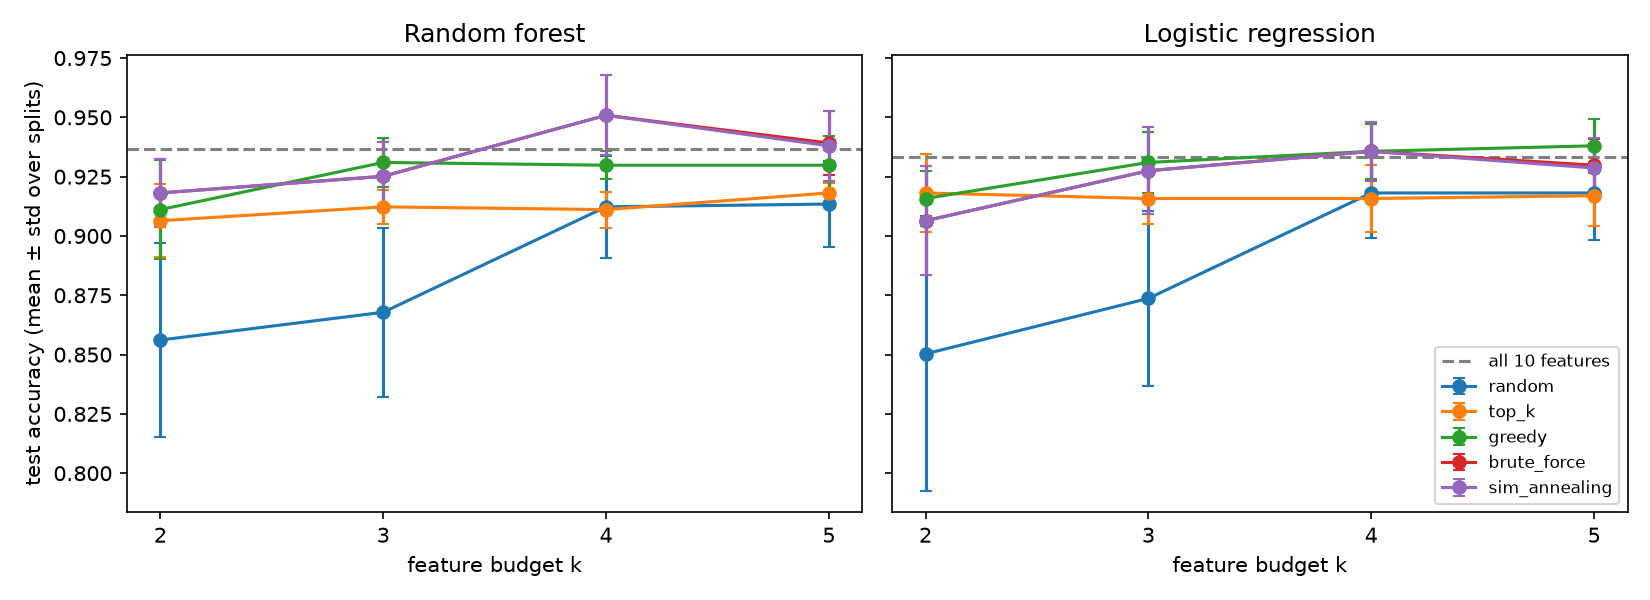
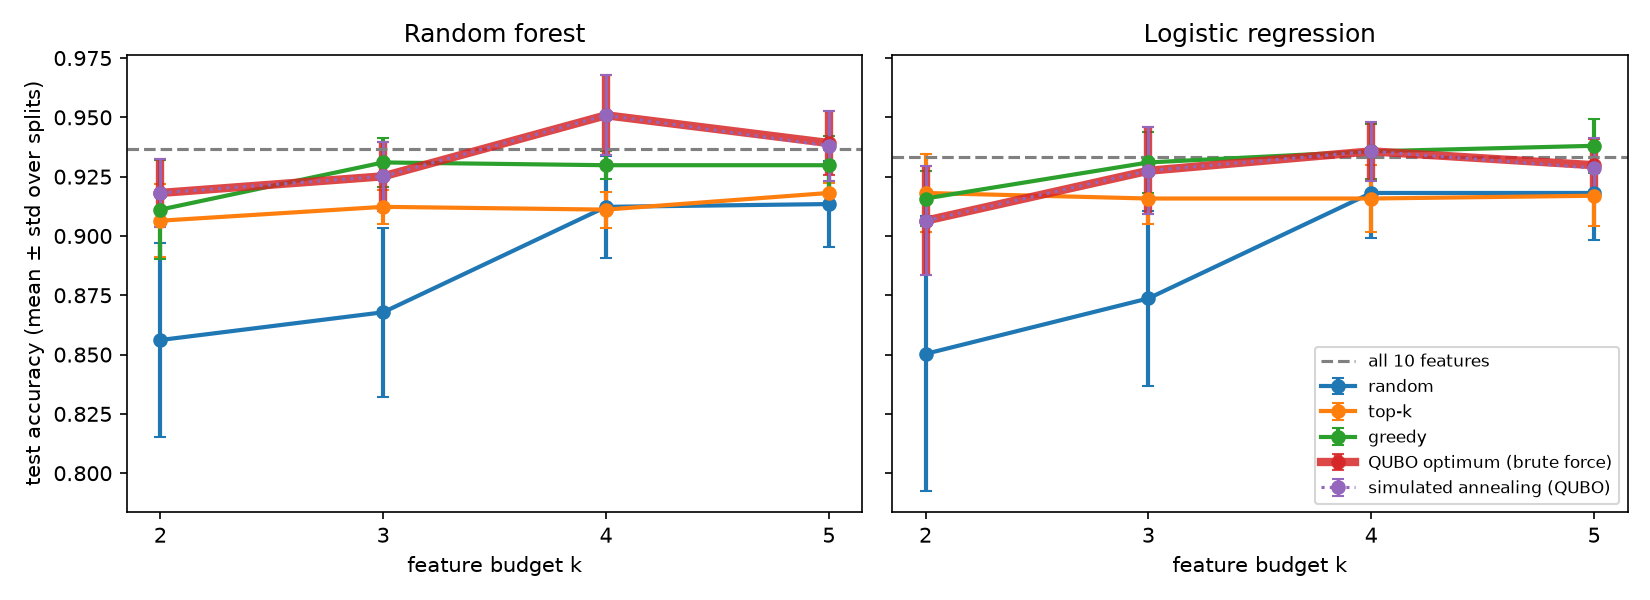
Label the QUBO optimum clearly in all experiment plots
Brute force, simulated annealing and QAOA return the same subsets, so their
lines used to overlap and hide each other. A shared plot_style.py now draws
the QUBO optimum as a thick red line with QAOA (dashed) and simulated
annealing (dotted) on top, and gives every method the same readable legend
name and colour across plots. All accuracy, data-noise and scale plots are
re-rendered from the saved results (no experiments re-run).

diff --git a/plot_scale.py b/plot_scale.py
@@ -1,6 +1,6 @@
 """
 Plot the 30-feature scale check (scale_check.py): accuracy and QUBO energy gap vs budget k.
-Colours per method match the other experiment plots (matplotlib tab10 order used in run_experiments.py).
+Names, colours and styles per method come from plot_style.py, shared by all experiment plots.
 
 Usage:
     python plot_scale.py   -> results/experiments/scale_30_corr_a0.5.png
@@ -10,24 +10,19 @@ import os
 import matplotlib.pyplot as plt
 import pandas as pd
 
+from plot_style import LABELS, STYLES, ordered
 from run_experiments import OUT_DIR
-
-COLORS = {"random": "tab:blue", "top_k": "tab:orange", "greedy": "tab:green",
-          "exact_qubo": "tab:red", "sim_annealing": "tab:purple"}
-LABELS = {"exact_qubo": "exact QUBO optimum", "greedy": "greedy", "sim_annealing": "sim_annealing",
-          "top_k": "top_k", "random": "random"}
 
 df = pd.read_csv(os.path.join(OUT_DIR, "scale_30_corr_a0.5.csv"))
 s = df.groupby(["k", "method"]).agg(acc=("acc_lr", "mean"), sd=("acc_lr", "std"),
                                      gap=("energy_gap", "mean")).reset_index()
 
 fig, (a1, a2) = plt.subplots(1, 2, figsize=(11, 3.9))
-for m in ["random", "top_k", "greedy", "sim_annealing", "exact_qubo"]:
+for m in ordered(s.method.unique()):
     d = s[s.method == m]
-    a1.errorbar(d.k, d.acc, yerr=d.sd, marker="o", capsize=3, lw=2, color=COLORS[m], label=LABELS[m])
-    if m not in ("exact_qubo", "random"):
-        a2.plot(d.k, d.gap, marker="o", lw=2, color=COLORS[m], label=LABELS[m])
-a2.axhline(0, color="tab:red", lw=2, ls="--", label="exact QUBO optimum")
+    a1.errorbar(d.k, d.acc, yerr=d.sd, marker="o", capsize=3, label=LABELS[m], **STYLES[m])
+    if m != "random":
+        a2.plot(d.k, d.gap, marker="o", label=LABELS[m], **STYLES[m])
 a1.set(title="Test accuracy, logistic regression (30 features)", xlabel="feature budget k",
        ylabel="test accuracy (mean ± std over splits)")
 a2.set(title="QUBO energy above the optimum (0 = optimal)", xlabel="feature budget k", ylabel="energy gap")

diff --git a/plot_data_noise.py b/plot_data_noise.py
@@ -12,6 +12,7 @@ import os
 import matplotlib.pyplot as plt
 import pandas as pd
 
+from plot_style import LABELS, STYLES, ordered
 from run_experiments import OUT_DIR
 
 NOISE_LEVELS = [0, 2, 4, 6, 8, 10]
@@ -35,16 +36,19 @@ def plot(df, path, title):
     acc, junk = g.acc_logreg.mean().unstack(0), g.n_noise_selected.mean().unstack(0)
     all_acc = df[df.method == "all"].groupby("noise_features").acc_logreg.mean()
     fig, axes = plt.subplots(1, 2, figsize=(11, 4))
-    for method in acc.columns:
-        style = dict(marker="o", ls="--" if method in ("sim_annealing", "qaoa") else "-")
-        axes[0].plot(acc.index, acc[method], label=method, **style)
-        axes[1].plot(junk.index, junk[method], label=method, **style)
+    for method in ordered(acc.columns):
+        style = dict(marker="o", label=LABELS[method], **STYLES[method])
+        axes[0].plot(acc.index, acc[method], **style)
+        axes[1].plot(junk.index, junk[method], **style)
     axes[0].plot(all_acc.index, all_acc, color="grey", ls=":", marker="s", label="all features")
     axes[0].set_title("Test accuracy, logistic regression (mean over k = 2..5)")
     axes[1].set_title("Junk features picked (mean over k = 2..5)")
     for ax in axes:
         ax.set_xlabel("number of pure-noise features added")
         ax.set_xticks(NOISE_LEVELS)
+    if {"greedy", "top_k"} <= set(junk.columns) and junk[["greedy", "top_k"]].to_numpy().max() == 0:
+        axes[1].annotate("greedy and top-k: 0 (lines overlap)", xy=(NOISE_LEVELS[-1], 0), xytext=(0, 10),
+                         textcoords="offset points", ha="right", va="bottom", fontsize=9, color="tab:green")
     axes[0].legend(fontsize=8)
     fig.suptitle(title)
     fig.tight_layout()

diff --git a/run_experiments.py b/run_experiments.py
@@ -30,6 +30,7 @@ from sklearn.preprocessing import StandardScaler
 from baselines import BenchmarkBaselines
 from qaoa import bit_energies, indices, qaoa
 from qubo import brute_force, build_qubo, redundancy_matrix, relevance_scores, simulated_annealing
+from plot_style import LABELS, STYLES, ordered
 
 ROOT = os.path.dirname(os.path.abspath(__file__))
 OUT_DIR = os.path.join(ROOT, "results", "experiments")
@@ -164,11 +165,10 @@ def plot(summary, path):
     fig, axes = plt.subplots(1, 2, figsize=(11, 4), sharey=True)
     all_row = summary[summary.method == "all"].iloc[0]
     for ax, col, title in [(axes[0], "acc_rf", "Random forest"), (axes[1], "acc_lr", "Logistic regression")]:
-        for method in summary.method.unique():
-            if method == "all":
-                continue
+        for method in ordered(summary.method.unique()):
             s = summary[summary.method == method]
-            ax.errorbar(s.k, s[f"{col}_mean"], yerr=s[f"{col}_std"], marker="o", capsize=3, label=method)
+            ax.errorbar(s.k, s[f"{col}_mean"], yerr=s[f"{col}_std"], marker="o", capsize=3,
+                        label=LABELS[method], **STYLES[method])
         ax.axhline(all_row[f"{col}_mean"], color="grey", ls="--", label=f"all {int(all_row.k)} features")
         ax.set_title(title)
         ax.set_xlabel("feature budget k")

diff --git a/plot_style.py b/plot_style.py
@@ -1,0 +1,27 @@
+"""Shared names, colours and line styles so every experiment plot shows each method the same way.
+The three QUBO solvers usually return the same subset, so the exact optimum is a thick solid line and
+QAOA / simulated annealing are drawn dashed / dotted on top of it (visible where they differ)."""
+
+LABELS = {
+    "random": "random",
+    "top_k": "top-k",
+    "greedy": "greedy",
+    "brute_force": "QUBO optimum (brute force)",
+    "exact_qubo": "QUBO optimum (exhaustive)",
+    "qaoa": "QAOA (solves the QUBO)",
+    "sim_annealing": "simulated annealing (QUBO)",
+}
+STYLES = {
+    "random": dict(color="tab:blue", lw=2, ls="-"),
+    "top_k": dict(color="tab:orange", lw=2, ls="-"),
+    "greedy": dict(color="tab:green", lw=2, ls="-"),
+    "brute_force": dict(color="tab:red", lw=4, ls="-", alpha=0.85),
+    "exact_qubo": dict(color="tab:red", lw=4, ls="-", alpha=0.85),
+    "qaoa": dict(color="tab:brown", lw=2, ls="--"),
+    "sim_annealing": dict(color="tab:purple", lw=1.5, ls=":"),
+}
+ORDER = ["random", "top_k", "greedy", "brute_force", "exact_qubo", "sim_annealing", "qaoa"]
+
+
+def ordered(methods):
+    return [m for m in ORDER if m in set(methods)]
